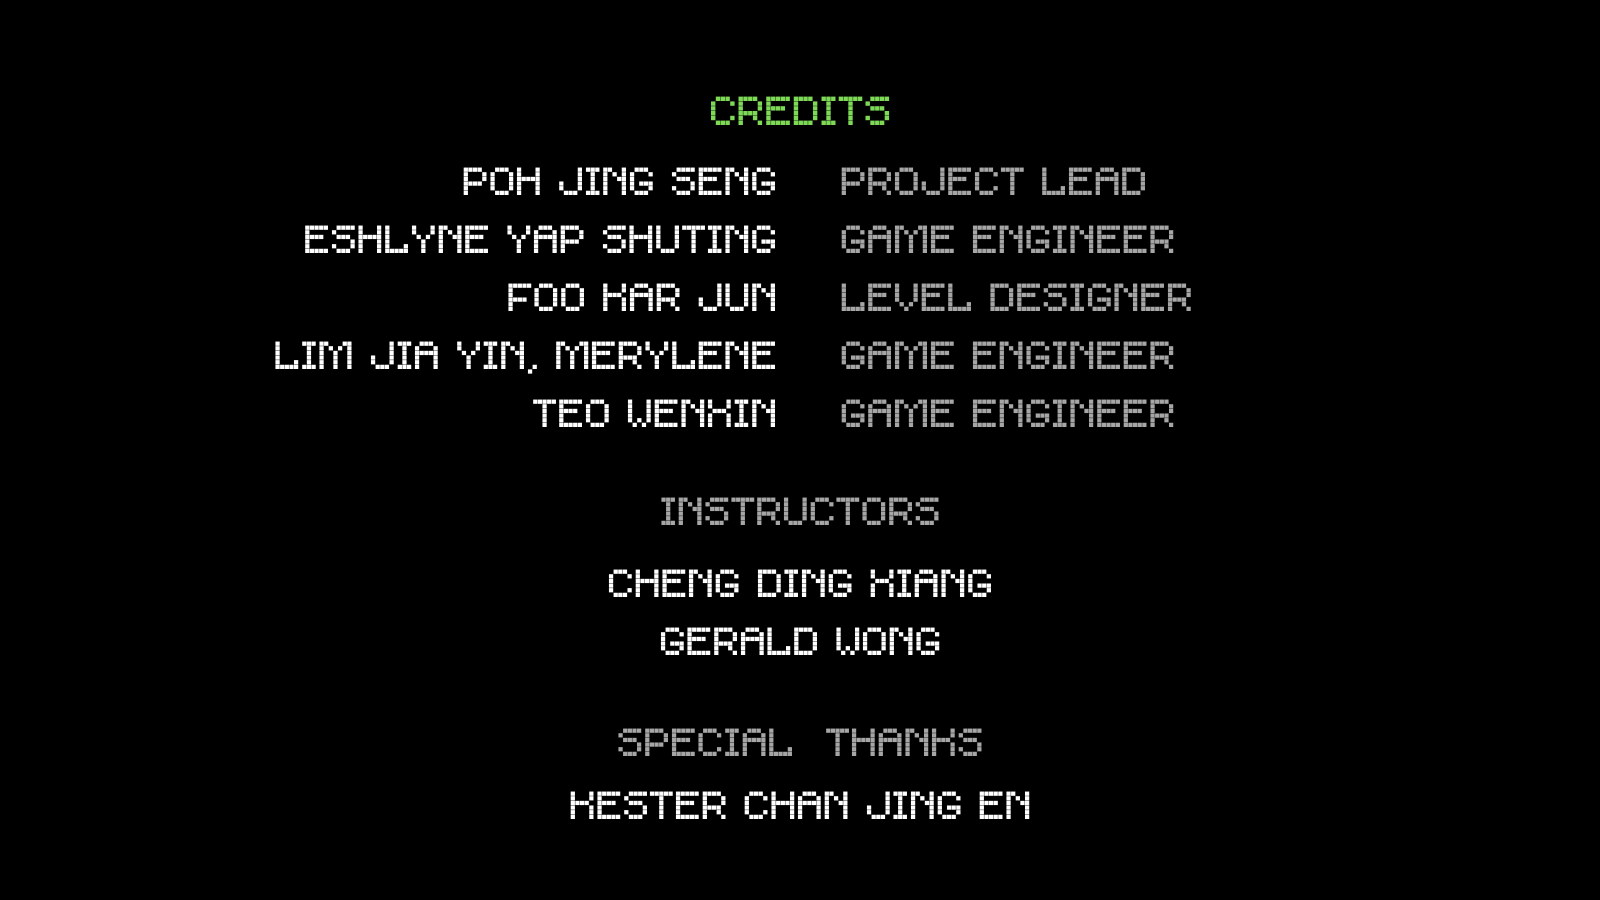
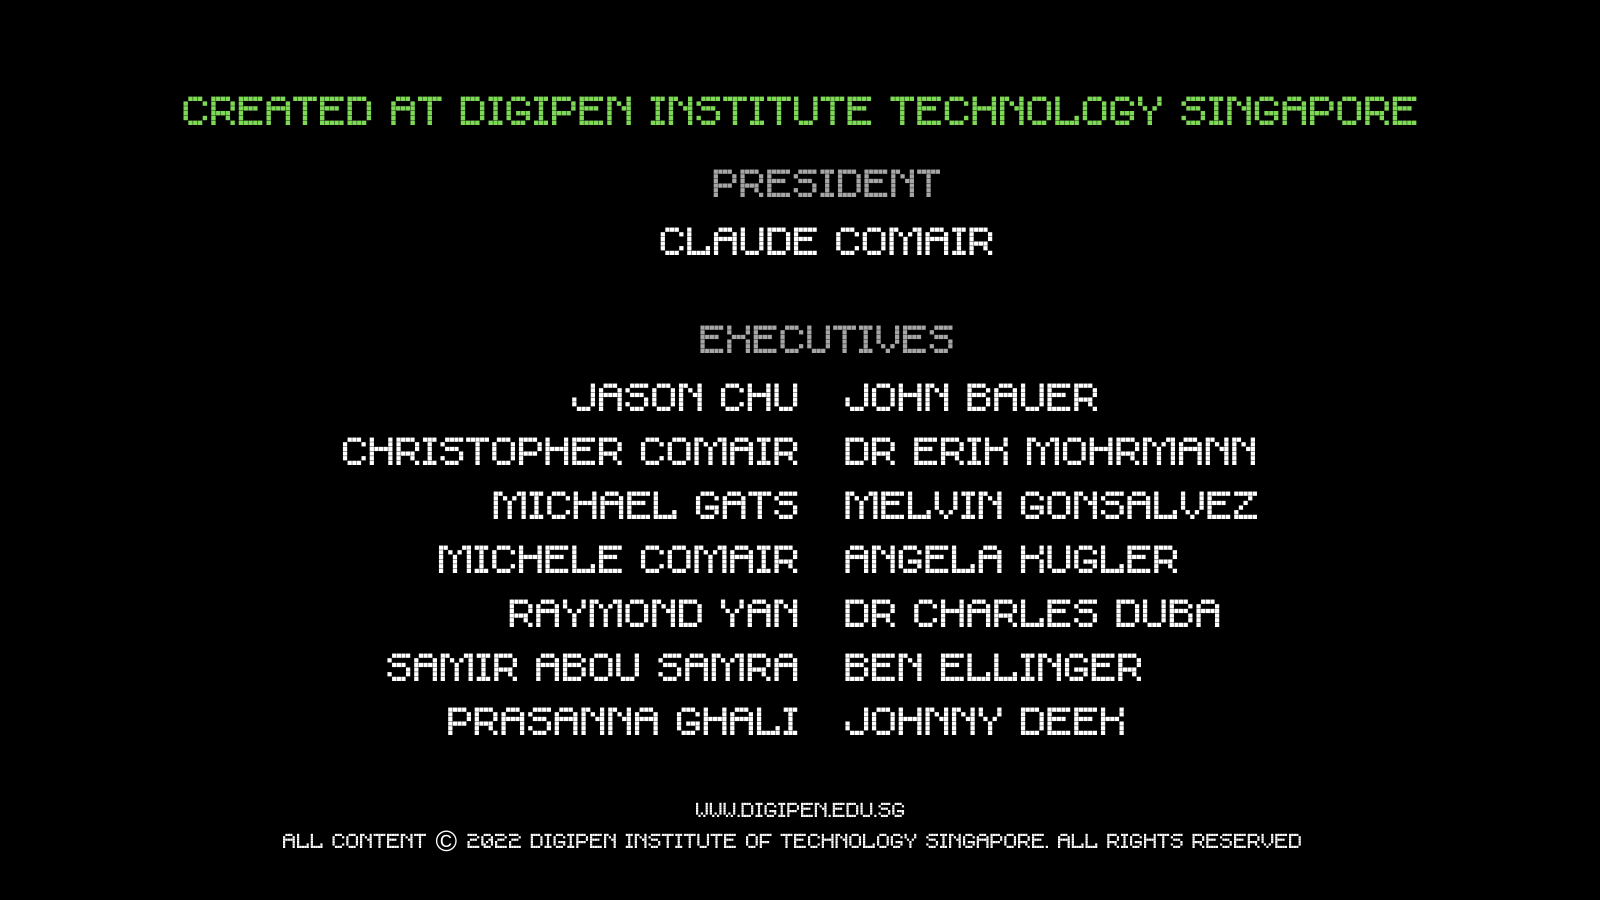
conditional png rendering depending on page num

diff --git a/credits.c b/credits.c
@@ -5,20 +5,29 @@
 #include <stdio.h>
 
 
-CP_Image creditsPng;
+#define numCreditsPngs 2
+CP_Image creditsPngs[numCreditsPngs] = { 0 };
+enum PAGE_NUMS page = PAGE_1;
 extern int menuState;
 
 void destroyCredits(void) {
-	CP_Image_Free(&creditsPng);
+	for (int i=0; i<numCreditsPngs; i++) {
+		CP_Image_Free(&creditsPngs[i]);
+	}
 }
 
 void renderCredits(void) {
-	if (creditsPng == NULL) {
-		creditsPng = CP_Image_Load("Assets/menu/credits.png");
+	for (int i=0; i<numCreditsPngs; i++) {
+		if (creditsPngs[i] == NULL) {
+			char path[MAX] = "";
+			snprintf(path, MAX, "Assets/menu/credits/credits_%d.png", i+1);
+			// puts(path);
+			creditsPngs[i] = CP_Image_Load(path);
+		}
 	}
 
 	renderBackdrop();
-	CP_Image_Draw(creditsPng, (float)(WINDOW_SIZE.width / 2), (float)(WINDOW_SIZE.height / 2), (float)CP_Image_GetWidth(creditsPng), (float)CP_Image_GetHeight(creditsPng), 255);
+	CP_Image_Draw(creditsPngs[page], (float)(WINDOW_SIZE.width / 2), (float)(WINDOW_SIZE.height / 2), (float)CP_Image_GetWidth(creditsPngs[page]), (float)CP_Image_GetHeight(creditsPngs[page]), 255);
 
 	bool isBackClicked = renderBackButton();
 	if (isBackClicked) {

diff --git a/menu.h b/menu.h
@@ -1,6 +1,7 @@
 #pragma once
 
 enum { FADE_IN,SHOW_LOGO, FADE_OUT, LAUNCH_PAGE, MENU_PAGE, FADE_TO_GAME, OPTIONS_PAGE, HELP_PAGE, CREDITS_PAGE };
+enum { PAGE_1, PAGE_2, PAGE_3, PAGE_4, PAGE_5 } PAGE_NUMS;
 
 void menuInit(void);
 void menuUpdate(void);

diff --git a/config.h b/config.h
@@ -13,8 +13,6 @@ typedef uint8_t BYTE;
 
 typedef uint8_t bool;
 
-
-
 typedef struct {
 	double width, height, diameter;
 } Size;
